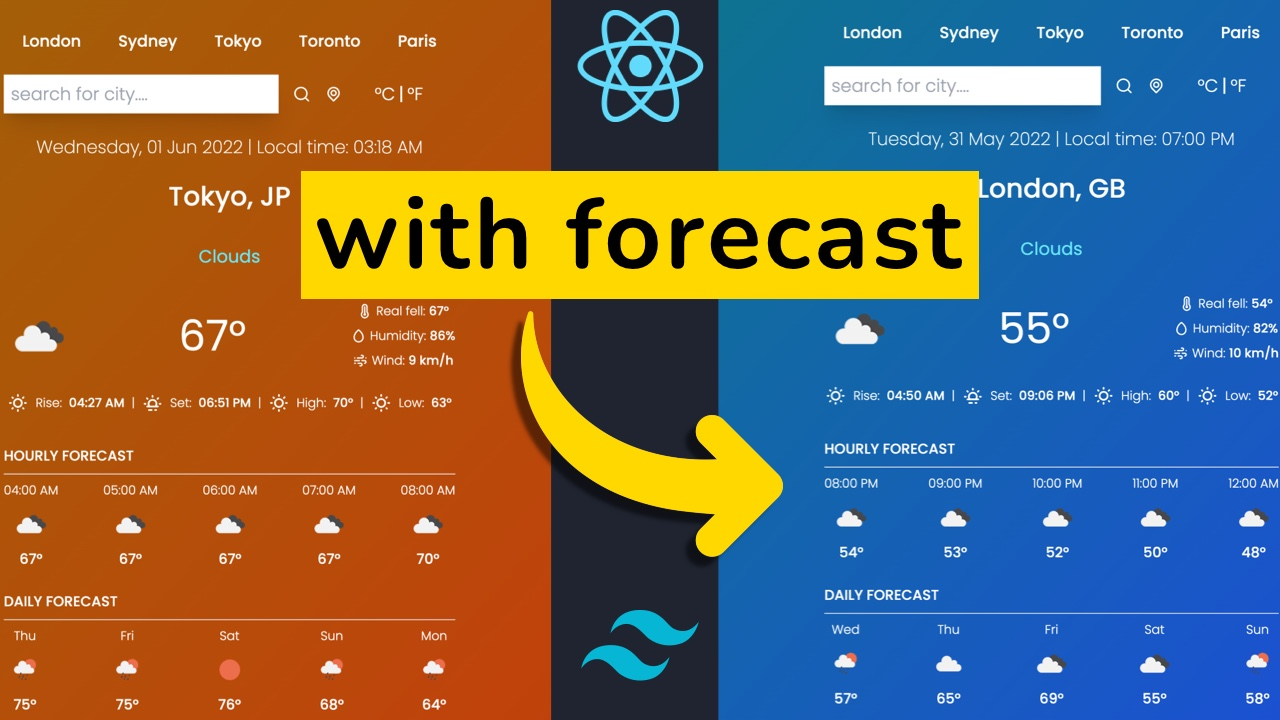
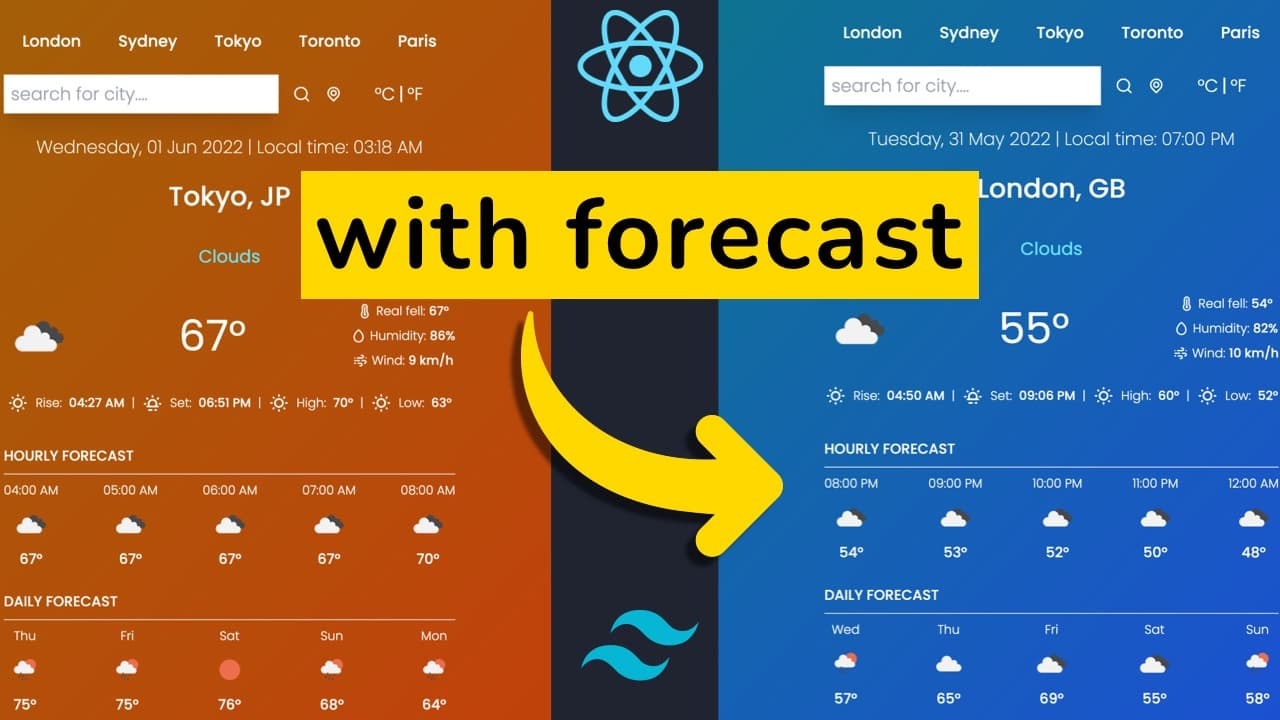
Update: - Optimized images size - Added portfolioBlog project to projects list

diff --git a/src/components/Portfolio.jsx b/src/components/Portfolio.jsx
@@ -1,16 +1,16 @@
-import userList from "../assets/portfolio/userlist.png";
-import myworkout from "../assets/portfolio/myworkout.png";
-import starwars from "../assets/portfolio/starwars.png";
-import promptopia from "../assets/portfolio/promptopia.png";
-import reduxTodolist from "../assets/portfolio/redux-todolist.png";
+import portfolioBlog from "../assets/portfolio/portfolioBlog.jpg";
+import myworkout from "../assets/portfolio/myworkout.jpg";
+import starwars from "../assets/portfolio/starwars.jpg";
+import promptopia from "../assets/portfolio/promptopia.jpg";
+import reduxTodolist from "../assets/portfolio/redux-todolist.jpg";
 import reactWeather from "../assets/portfolio/reactWeather.jpg";
 
 const portfolios = [
   {
     id: 1,
-    src: userList,
-    demoLink: "https://maxjn-userlist-next.vercel.app/",
-    codeLink: "https://github.com/maxjn/userlist-next",
+    src: portfolioBlog,
+    demoLink: "https://maxjn-portfolio-blog.vercel.app/",
+    codeLink: "https://github.com/maxjn/portfolio-blog",
   },
   {
     id: 2,
